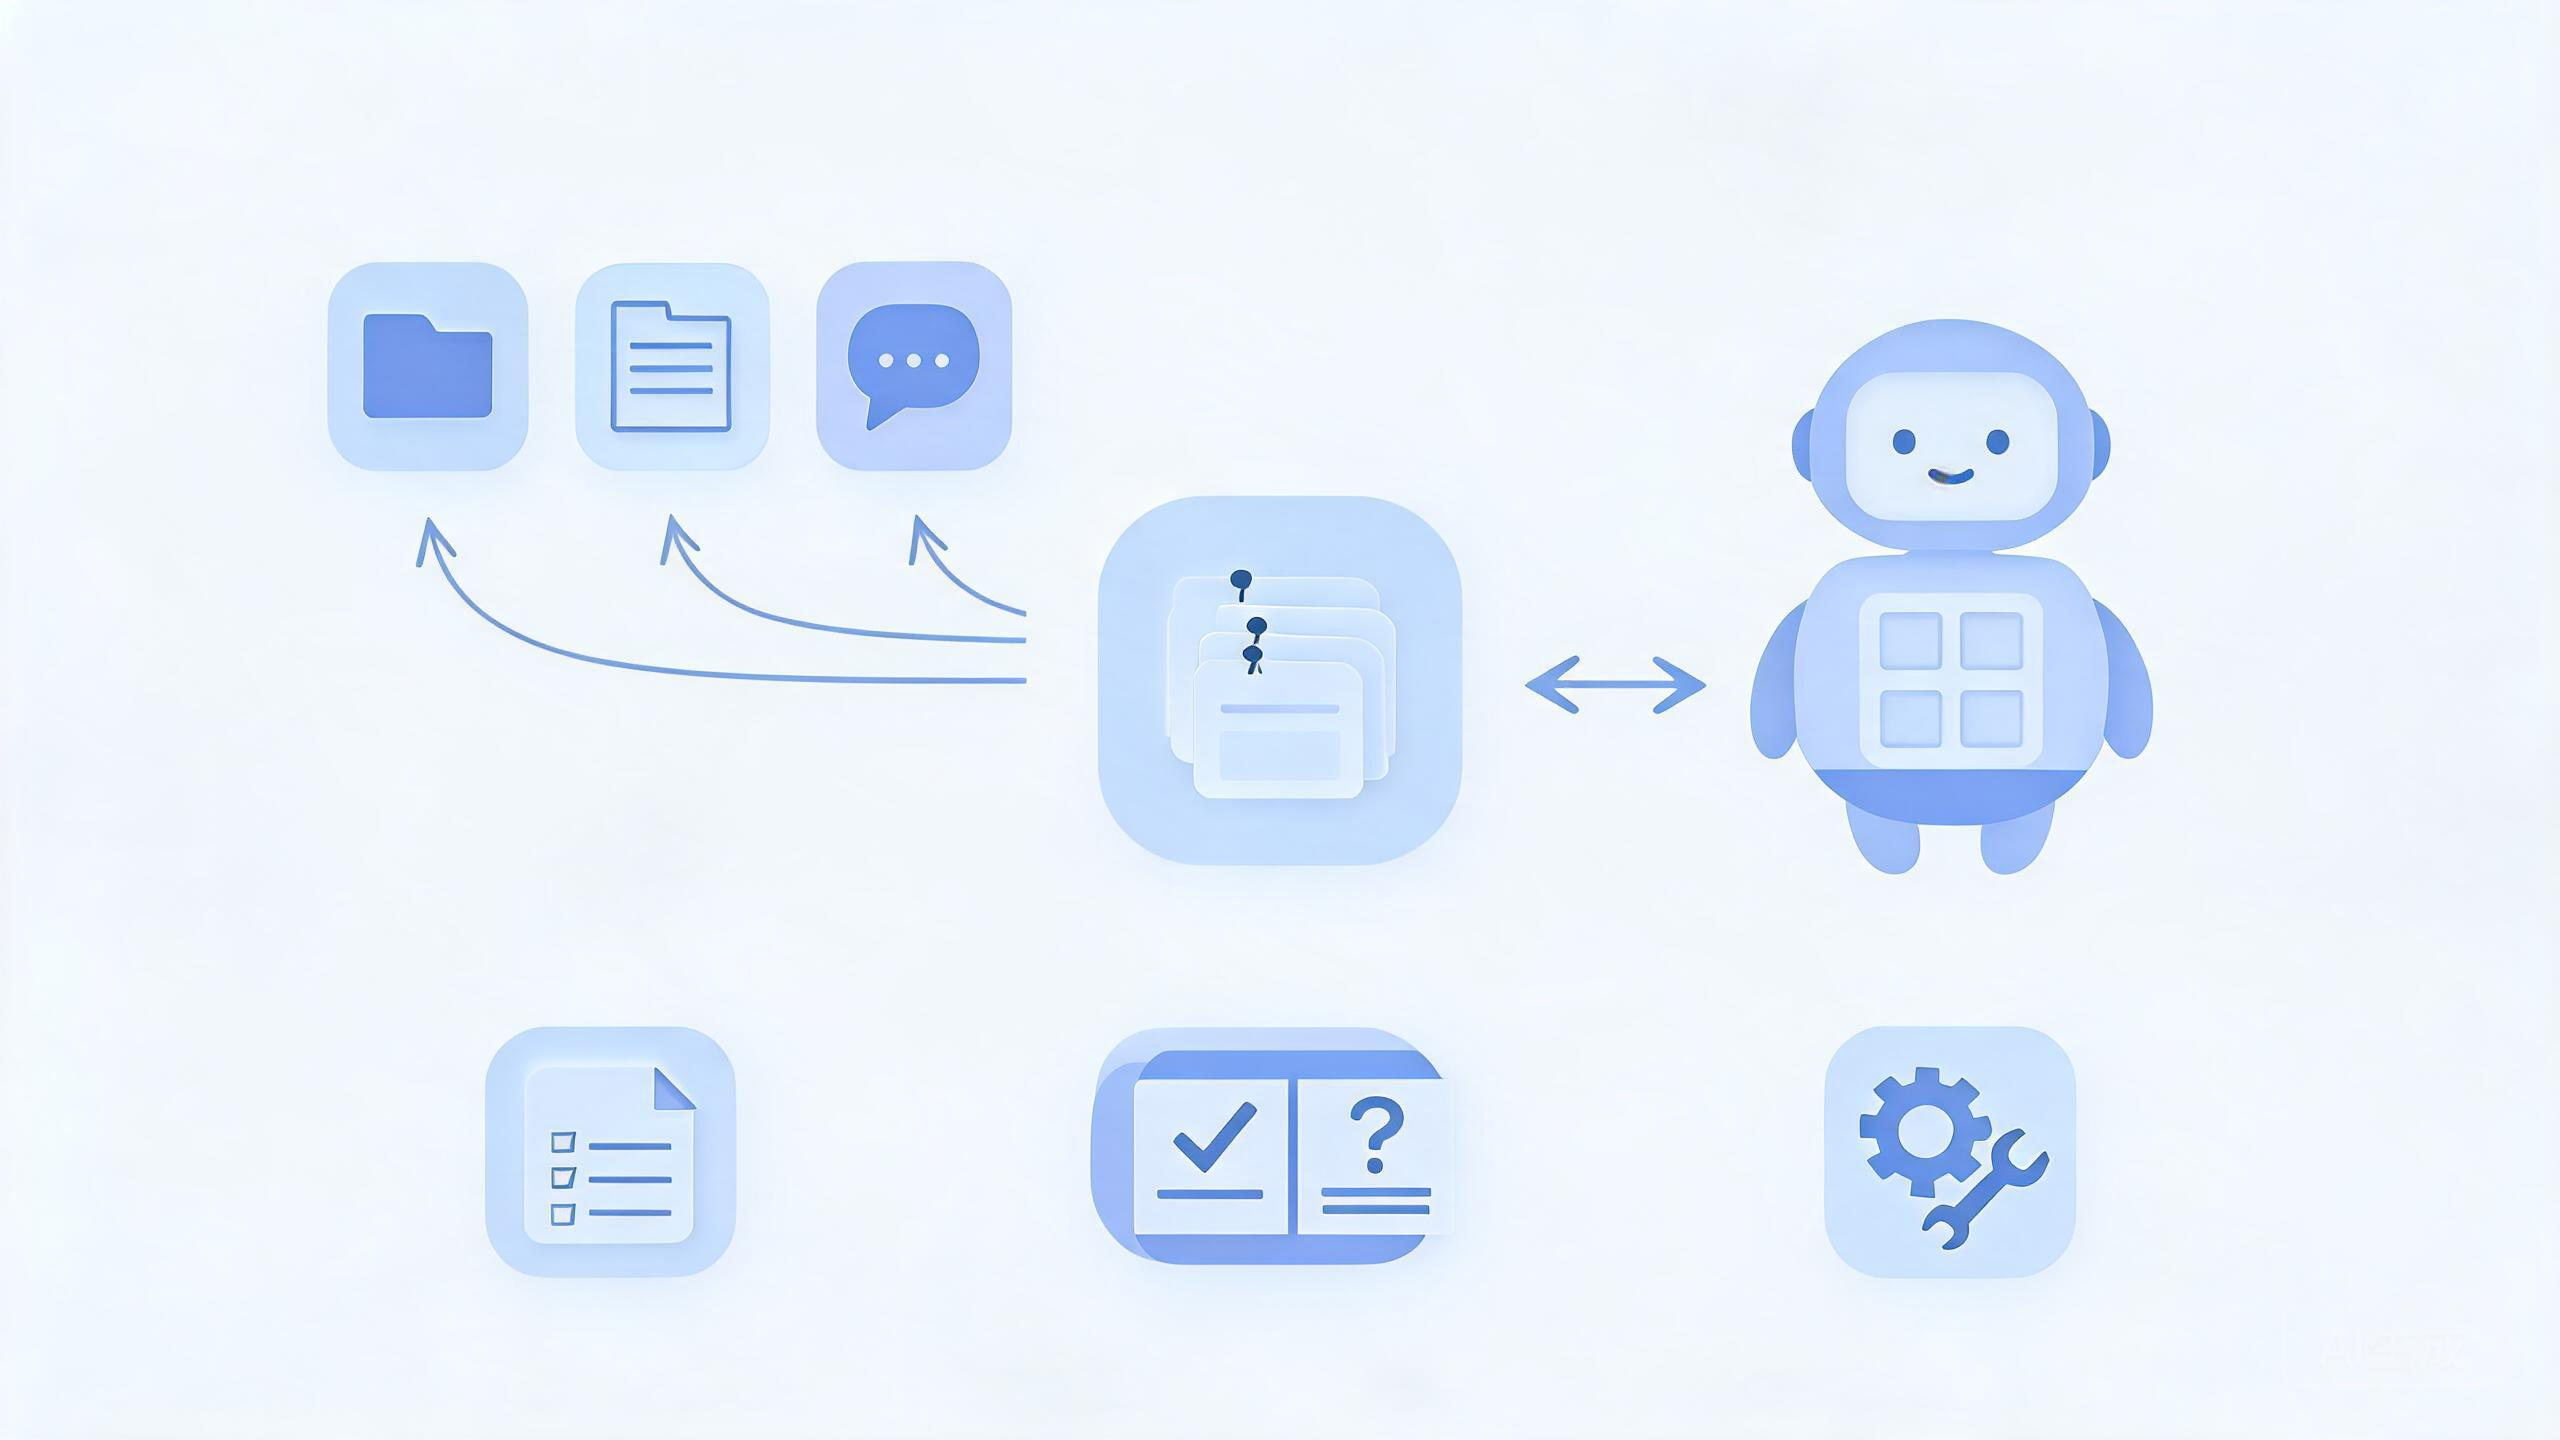
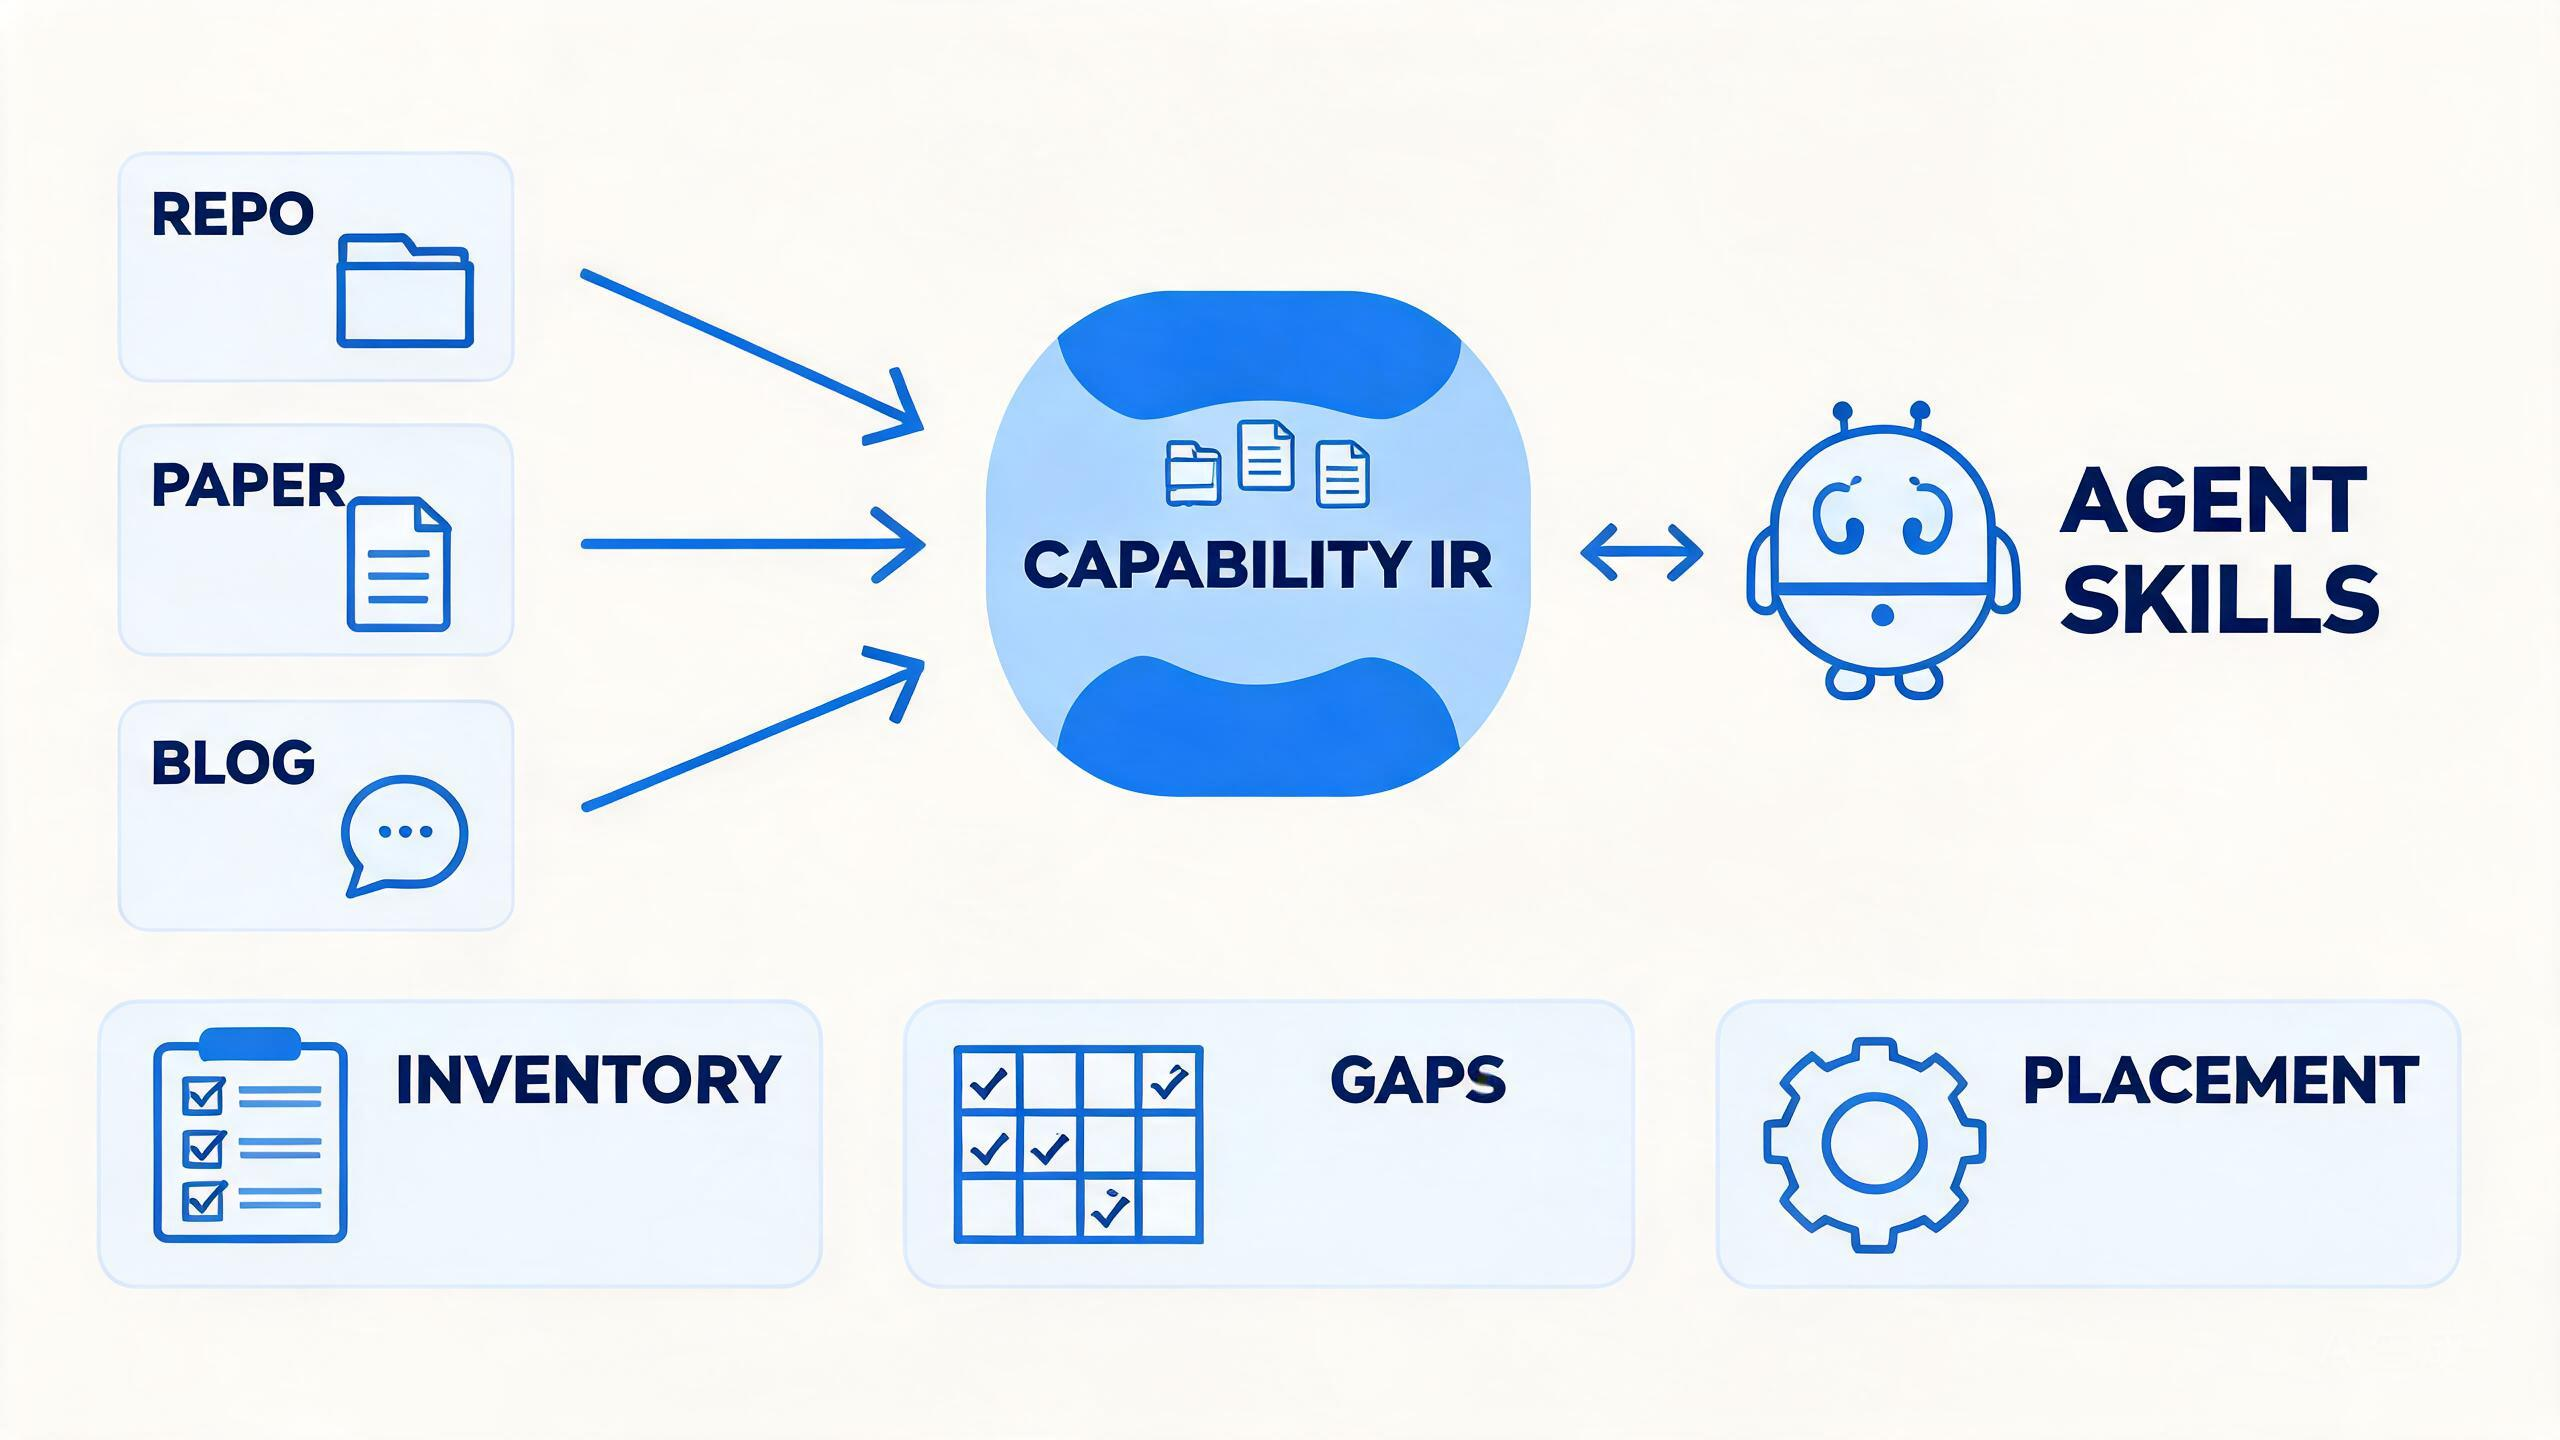
docs: quickstart one-line install via npx skills add; replace figures with OCR-verified labeled renders

diff --git a/README.md b/README.md
@@ -58,10 +58,21 @@ capalign 解决一个具体问题：
 
 ## 快速开始
 
-**1. 安装 —— 装进你的 agent 框架**
+**1. 安装 —— 一行命令**
 
-把 `SKILL.md` 与 `references/` 放进宿主框架的 skills 目录（例如 `.agents/skills/`），
-或直接在对话中指给 agent。没有依赖要装，没有脚本要跑。
+```bash
+npx skills add WeiminLee/capalign -g     # 全局安装；或 -p 装到当前项目
+```
+
+装好后 skill 出现在宿主框架 skills 目录（如 `.agents/skills/capability-align`），
+适用于 Claude Code / Cursor / Codex / GitHub Copilot 等。想先试用、不落盘：
+
+```bash
+npx skills use WeiminLee/capalign@capability-align
+```
+
+**手动安装**：也可直接把 `SKILL.md` 与 `references/` 拷入宿主框架的 skills 目录，
+或对话中指给 agent。没有依赖要装，没有脚本要跑。
 
 **2. 使用 —— 给 agent 一句话**
 
